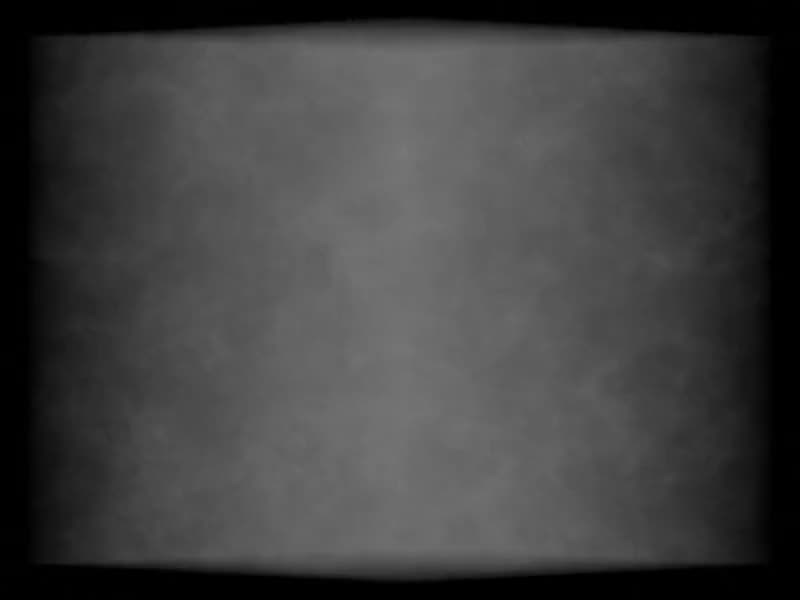
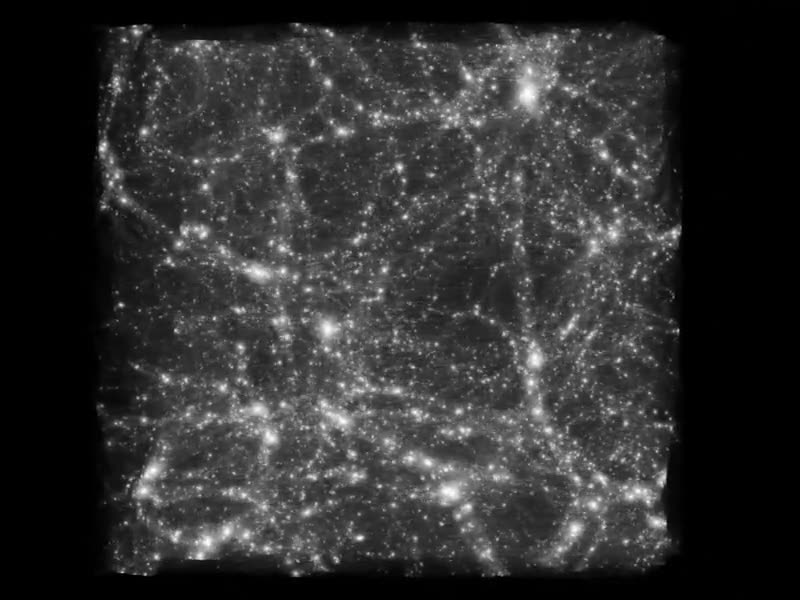
Home page: new bio and a compact layout
- Bio rewritten in the present tense: research scientist at the CCA,
  Flatiron Institute, and visiting research scholar at Princeton; earlier
  career in one sentence; research focus at the intersection of
  simulations and AI; projects sentence linking to the Projects cards;
  PI of Learning the Universe and member of HIRAX. The old
  collaborations paragraph is removed.
- Layout: photo with the text flowing around it, then the two
  simulation videos side by side, then the project cards. The large
  Denario image is removed (the Denario card shows it); Denario link
  updated to Denario-AI/Denario.
- N-body video preview image now shows the formed cosmic web.

diff --git a/index.html b/index.html
@@ -66,50 +66,27 @@
       <img class="presentation-photo" src="img/Photo.png"/>
 
       <div class="presentation-text">
+        <p>Hello! </p>
         <p>
-          Hello!
-        </p><p>
-          I am Francisco Villaescusa-Navarro, mostly known as <a href="https://en.wikipedia.org/wiki/Paco">Paco</a>. I am a research scientist at the <a href="https://www.simonsfoundation.org">Simons Foundation</a> in New York City and a visiting research scholar at <a href="https://web.astro.princeton.edu/">Princeton University</a>. I did my Ph.D. at the <a href="https://webific.ific.uv.es/web/">Instituto de Fisica Corpuscular</a> in Valencia, Spain. I have been a visiting graduate student at the <a href="https://www.cita.utoronto.ca/">Canadian Institute for Theoretical Astrophysics</a> (CITA) and the <a href="https://itc.cfa.harvard.edu/">Institute for Theory and Computation</a> (CfA/Harvard University).  After completing my Ph.D. I was a postdoctoral researcher at the <a href="http://www.oats.inaf.it/index.php/it/">Astronomical Observatory of Trieste</a>, Italy, and a Flatiron research fellow at the <a href="https://www.simonsfoundation.org/flatiron-institute/center-for-computational-astrophysics/">Center for Computational Astrophysics</a> in New York. Later, I went to Princeton University as an associate research scholar.
+          I am Francisco Villaescusa-Navarro, mostly known as <a href="https://en.wikipedia.org/wiki/Paco">Paco</a>. I am a research scientist at the <a href="https://www.simonsfoundation.org/flatiron/center-for-computational-astrophysics/">Center for Computational Astrophysics</a> of the <a href="https://www.simonsfoundation.org/flatiron/">Flatiron Institute</a> in New York City, and a visiting research scholar at <a href="https://web.astro.princeton.edu/">Princeton University</a>. Before joining Flatiron as a research scientist in 2021, I did my Ph.D. at the <a href="https://webific.ific.uv.es/web/">Instituto de F&iacute;sica Corpuscular</a> in Valencia, Spain, and was a postdoctoral researcher at the <a href="http://www.oats.inaf.it/index.php/it/">Astronomical Observatory of Trieste</a>, a Flatiron Research Fellow, and an associate research scholar at Princeton University.
         </p>
+        <p>I am a cosmologist working at the intersection of numerical simulations and artificial intelligence. My goal is to learn about fundamental physics (the components, laws and initial conditions of the Universe) from cosmological observations. To do so, I lead the development of large suites of state-of-the-art simulations designed to train machine learning models, and I develop <a href="ml.html">machine learning methods</a> to extract as much information as possible from cosmic surveys while accounting for uncertain astrophysical processes. More recently, I have been developing AI agents designed to act as research partners across scientific disciplines. I have also worked on <a href="neutrinos.html">neutrino masses</a>, <a href="im.html">21cm intensity mapping</a>, the Lyman-&alpha; forest, modified gravity, BAO reconstruction, the kSZ effect, and galaxy formation.</p>
+        <p>I am the main architect of the <a href="https://quijote-simulations.readthedocs.io">Quijote simulations</a>, co-lead the <a href="https://camels.readthedocs.io">CAMELS</a> project, am part of the founding team of <a href="https://dreams-project.readthedocs.io">DREAMS</a>, and develop the <a href="https://github.com/franciscovillaescusa/Pylians3">Pylians</a> libraries (see <a href="#projects">Projects</a> below). I am also one of the PIs of the <a href="https://learning-the-universe.org/">Learning the Universe</a> collaboration, and a member of the <a href="https://hirax.ukzn.ac.za/">HIRAX</a> (Hydrogen Intensity and Real-time Analysis eXperiment) collaboration.</p>
+        <p>I am one of the primary developers of the <a href="https://github.com/Denario-AI/Denario">Denario</a> project, a complex AI multi-agent system designed for scientific discovery. Denario can generate ideas, check literature, develop research plans, write and execute code, and write and review papers. I'm currently working with a large team of scientists from various fields, including astrophysics, biology, biophysics, chemistry, material science, neuroscience, planetary science, and quantum physics, as well as experts in machine learning, mathematics, and philosophy. Together, we are pushing the boundaries of what large-language models (LLMs) can achieve in scientific research. </p>
+      </div>
 
-	<div class="presentation-video">
-	  <video width="400" height="300" controls autoplay muted loop playsinline poster="video/Nbody.jpg">
+      <div class="video-pair">
+        <video width="400" height="300" controls autoplay muted loop playsinline poster="video/Nbody.jpg">
 	  <source src="video/Nbody.mp4" type="video/mp4">
 	  Your browser does not support the video tag.
 	  </video>
-	</div>
-	
-	<p>I am a theoretical astrophysicist working on several aspects of cosmology. I investigate the properties of the large-scale structure of the Universe with the goal of using cosmological observations to learn about fundamental physics. The goal of my research is to develop the tools that will allow to extract every single bit of cosmological information from cosmic surveys. To achieve this, I combine machine/deep learning techniques with very large sets of state-of-the-art numerical simulations. I am particularly interested in understanding the impact of neutrino masses on cosmological observables, that I study combining analytic techniques and state-of-the-art numerical simulations. My research also involves investigating how cosmological and astrophysical information can be extracted from 21cm intensity mapping surveys. I have also worked on other topics such as the Lyman-alpha forest, modified gravity, BAO reconstruction, kSZ and galaxy formation and evolution. More recently, my research interests have been moving to machine learning, and its usage in cosmology.</p>
-
-	<div class="presentation-video2">
-	  <video width="480" height="270" controls autoplay muted loop playsinline poster="video/Hydro.jpg">
+        <video width="480" height="270" controls autoplay muted loop playsinline poster="video/Hydro.jpg">
 	  <source src="video/Hydro.mp4" type="video/mp4">
 	  Your browser does not support the video tag.
 	  </video>
-	</div>
-
-          <p>I am the main architect of the <a href="https://github.com/franciscovillaescusa/Quijote-simulations"> Quijote simulations</a>: a suite of 88,000 full N-body simulations containing trillions of particles over a combined cosmological volume larger than the volume of the entire observable Universe. I also developed its precursor, the <a href="https://franciscovillaescusa.github.io/hades.html">HADES simulations</a>. I am part of the core team who designed and developed the Cosmology and Astrophysics with MachinE Learning Simulations, 
-           <a href="https://www.camel-simulations.org"> CAMELS</a>, a suite of thousands of state-of-the-art cosmological (magneto-)hydrodynamic simulations designed to train machine learning algorithms. I am also the main developer of the <a href="https://github.com/franciscovillaescusa/Pylians3">Pylians</a> libraries, a set of python, cython and C libraries designed to analyze numerical simulations. 
-          </p>
-
-
       </div>
-<div class="denario-section">
-  <div class="denario-text-content">
-    <p>
-      I co-lead the <a href="https://www.camel-simulations.org">CAMELS project</a>. I am a member of <a href="https://www.euclid-ec.org/">Euclid</a> consortium, where I co-lead the Machine Learning for Cosmological Simulations WP. I am also part of the <a href="https://pfs.ipmu.jp/">PFS</a>, <a href="https://roman.gsfc.nasa.gov/">Roman Space Telescope</a>, <a href="http://skatelescope.org/"> Square Kilometre Array</a>, and <a href="https://www.simonsfoundation.org/flatiron/center-for-computational-astrophysics/galaxy-formation/smaug/">SMAUG</a> collaborations.
-    </p>
 
-    <p>
-      I am one of the primary developers of the <a href="https://github.com/AstroPilot-AI/Denario">Denario</a> project, a complex AI multi-agent system designed for scientific discovery. Denario can generate ideas, check literature, develop research plans, write and execute code, and write and review papers. I'm currently working with a large team of scientists from various fields, including astrophysics, biology, biophysics, chemistry, material science, neuroscience, planetary science, and quantum physics, as well as experts in machine learning, mathematics, and philosophy. Together, we are pushing the boundaries of what large-language models (LLMs) can achieve in scientific research.
-    </p>
-  </div>
-  <a href="https://github.com/AstroPilot-AI/Denario">
-    <img src="img/Agents.jpg" alt="AI agents for scientific discovery"/>
-    </a>
-</div>
-
-<div class="projects">
+<div class="projects" id="projects">
   <h2 class="projects-heading">Projects</h2>
   <div class="project-grid">
     <a class="project-card" href="https://quijote-simulations.readthedocs.io">

diff --git a/styles.css b/styles.css
@@ -375,8 +375,10 @@ body{
 
 
 .denario-section {
+  clear: both;          /* start below the floated video above */
+  padding-top: 1em;
   display: flex;
-  align-items: flex-start;
+  align-items: center;
   gap: 20px;
 }
 
@@ -480,6 +482,15 @@ body{
 .ml-papers li { margin-bottom: 0.25em; }
 .ml-more { margin-top: 2em; text-align: center; }
 
+/* ##############  HOME: VIDEO NEXT TO A SHORT PARAGRAPH ############## */
+.video-row { clear: both; display: flex; align-items: center; gap: 1.2em; margin: 1em 0; }
+.video-row .presentation-video2 { float: none; flex: 0 0 auto; padding: 0; width: auto; }
+.video-row p { margin: 0; }
+
+/* ##############  HOME: TWO VIDEOS SIDE BY SIDE ############## */
+.video-pair { clear: both; display: flex; gap: 1.2em; margin: 1.5em 0 0.5em; }
+.video-pair video { flex: 1 1 0; min-width: 0; width: 100%; height: auto; aspect-ratio: 16 / 9; object-fit: cover; background: #000; }
+
 /* ##############  HOME: PROJECT CARDS ############## */
 .projects { margin: 2.5em 0 1em; }
 .projects-heading { font-size: 2em; font-weight: normal; text-align: center; margin: 0 0 0.6em; }
@@ -549,6 +560,8 @@ body{
         float: none; width: 100%; padding: 0; margin: 1em 0;
     }
     .denario-section { flex-direction: column; }
+    .video-row { flex-direction: column; align-items: stretch; }
+    .video-pair { flex-direction: column; }
     .denario-section img { max-width: 100%; }
     .project-card { width: 100%; }
     .projects-heading { font-size: 1.6em; }
